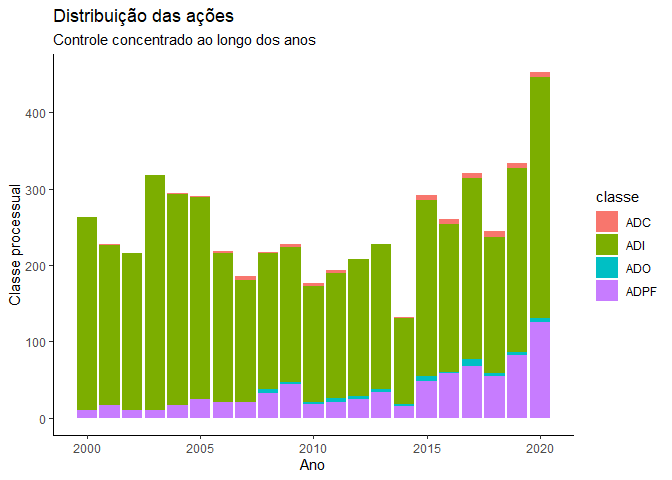
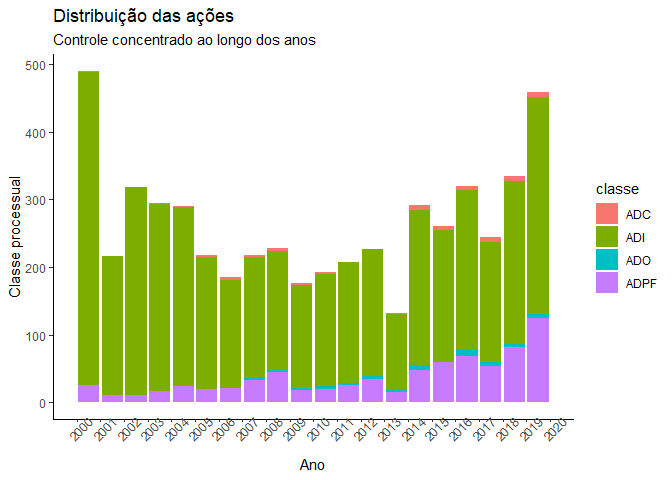
Acrescentando nuvens de palavras e correções nos gráficos

diff --git a/README.md b/README.md
@@ -189,12 +189,12 @@ numa tabela auxiliar, salva em .rds para uso futuro:
     #> # A tibble: 6 x 3
     #>   classe numero incidente
     #>   <chr>   <dbl> <chr>    
-    #> 1 ADC        53 5436051  
-    #> 2 ADC        54 5440576  
-    #> 3 ADC        55 5471945  
-    #> 4 ADC        56 5472003  
-    #> 5 ADC        57 5511026  
-    #> 6 ADC        58 5526245
+    #> 1 ADC         9 1948617  
+    #> 2 ADC        10 2221383  
+    #> 3 ADC        11 2338671  
+    #> 4 ADC        12 2358461  
+    #> 5 ADC        13 2383568  
+    #> 6 ADC        14 2415705
 
 ### *3. Obtenção dos dados do processo*
 
@@ -308,7 +308,6 @@ Da mesma maneira, a função `ler_pdf_inicial`busca a petição já baixada
 relativa ao incidente indicado e faz a leitura da mesma, retornando uma
 string com seu conteúdo.
 
-    #> Joining, by = "word"
     #> # A tibble: 1 x 2
     #>   incidente texto_inicial                                                       
     #>   <chr>     <chr>                                                               
@@ -332,12 +331,12 @@ seguintes:
     #> # A tibble: 6 x 3
     #>   classe numero incidente
     #>   <chr>   <dbl> <chr>    
-    #> 1 ADC        53 5436051  
-    #> 2 ADC        54 5440576  
-    #> 3 ADC        55 5471945  
-    #> 4 ADC        56 5472003  
-    #> 5 ADC        57 5511026  
-    #> 6 ADC        58 5526245
+    #> 1 ADC         9 1948617  
+    #> 2 ADC        10 2221383  
+    #> 3 ADC        11 2338671  
+    #> 4 ADC        12 2358461  
+    #> 5 ADC        13 2383568  
+    #> 6 ADC        14 2415705
 
 | Coluna      | Descrição                                                  |
 | ----------- | ---------------------------------------------------------- |
@@ -354,14 +353,14 @@ linha. A ideia é que seja possível filtrar, agrupar, pivotar e realizar
 join de acordo com a necessidade de cada análise.
 
     #> # A tibble: 6 x 3
-    #>   incidente tipo  nome                                                    
-    #>   <chr>     <chr> <chr>                                                   
-    #> 1 5436051   REQTE DIRETÓRIO NACIONAL DO PROGRESSISTAS-PP                  
-    #> 2 5436051   ADV   LISE REIS BATISTA DE ALBUQUERQUE (25998/DF) E OUTRO(A/S)
-    #> 3 5436051   INTDO PRESIDENTE DA REPÚBLICA                                 
-    #> 4 5436051   PROC  ADVOGADO-GERAL DA UNIÃO                                 
-    #> 5 5436051   INTDO CONGRESSO NACIONAL                                      
-    #> 6 5436051   PROC  ADVOGADO-GERAL DA UNIÃO
+    #>   incidente tipo  nome                                
+    #>   <chr>     <chr> <chr>                               
+    #> 1 1948617   REQTE PRESIDENTE DA REPÚBLICA             
+    #> 2 1948617   ADV   ADVOGADO-GERAL DA UNIÃO             
+    #> 3 2221383   REQTE DINETE LESSA                        
+    #> 4 2221383   ADV   ADRIANO FERNANDES                   
+    #> 5 2338671   REQTE GOVERNADOR DO DISTRITO FEDERAL      
+    #> 6 2338671   ADV   PROCURADOR-GERAL DO DISTRITO FEDERAL
 
 | Coluna      | Descrição                                                                                         |
 | ----------- | ------------------------------------------------------------------------------------------------- |
@@ -378,14 +377,14 @@ repetido para cada linha. A ideia é que seja possível filtrar, agrupar,
 pivotar e realizar join de acordo com a necessidade de cada análise.
 
     #> # A tibble: 6 x 3
-    #>   incidente data       andamento                       
-    #>   <chr>     <date>     <chr>                           
-    #> 1 5436051   2018-09-11 Baixa ao arquivo do STF, Guia nº
-    #> 2 5436051   2018-09-11 Transitado(a) em julgado        
-    #> 3 5436051   2018-08-14 Publicação, DJE                 
-    #> 4 5436051   2018-08-10 Extinto o processo              
-    #> 5 5436051   2018-04-12 Conclusos ao(à) Relator(a)      
-    #> 6 5436051   2018-04-12 Distribuído
+    #>   incidente data       andamento                                                
+    #>   <chr>     <date>     <chr>                                                    
+    #> 1 1948617   2004-09-03 BAIXA AO ARQUIVO DO STF                                  
+    #> 2 1948617   2004-09-03 PUBLICADA DECISÃO NO DJ                                  
+    #> 3 1948617   2004-09-03 PUBLICADA DECISÃO NO D.O.U.                              
+    #> 4 1948617   2004-08-31 TRANSITADO EM JULGADO                                    
+    #> 5 1948617   2004-04-26 JUNTADA DE CÓPIA AUTENTICADA DE MANDADO DE INTIMAÇÃO DEV~
+    #> 6 1948617   2004-04-26 JUNTADA DE CÓPIA AUTENTICADA DE MANDADO DE INTIMAÇÃO DEV~
 
 | Coluna      | Descrição                                                  |
 | ----------- | ---------------------------------------------------------- |
@@ -393,9 +392,10 @@ pivotar e realizar join de acordo com a necessidade de cada análise.
 | *data*      | Data em que ocorreu o andamento                            |
 | *nome*      | Andamento em si                                            |
 
-### *d) Base de andamentos*
+### *d) Base de inteiro teor de petições*
 
-Relaciona o inteiro teor das petições para todos os processos da base.
+Relaciona o inteiro teor das petições para todos os processos da base de
+acordo com a leitura que foi possível realizar.
 
 Assim como a anterior, está em um formato em que o número do incidente é
 repetido para cada linha. A ideia é qie seja possível filtrar, agrupar,
@@ -403,17 +403,18 @@ pivotar e realizar join de acordo com a necessidade de cada análise.
 
 Por ser um texto extenso, é a única que está compactada. Ela também foi
 pré-processada com o pacote `{pdftools}` para que fosse colapsada em
-apenas uma única grande string.
+apenas uma única grande string. Caso a petição seja uma imagem (mais
+comum com os processos mais antigos) a leitura não será feita.
 
     #> # A tibble: 6 x 2
     #>   incidente texto_inicial                                                       
     #>   <chr>     <chr>                                                               
-    #> 1 6012085   "SÉRGIO VICTOR ADVOCACIA EXCELENTÍSSIMO SENHOR MINISTRO LUIZ FUX PR~
-    #> 2 6025884   "EXCELENTÍSSIMO(A) SENHOR(A) MINISTRO PRESIDENTE DO SUPREMO TRIBUNA~
-    #> 3 5337403   "EXCELENTÍSSIMA SENHORA MINISTRA PRESIDENTE DO EGRÉGIO SUPREMO TRIB~
-    #> 4 5340474   "EXCELENTÍSSIMA SENHORA MINISTRA CÁRMEN LÚCIA, PRESIDENTE DO SUPREM~
-    #> 5 5341021   ""                                                                  
-    #> 6 5341622   "EXCELENTÍSSIMA SENHORA PRESIDENTE DO EGRÉGIO SUPREMO TRIBUNAL FEDE~
+    #> 1 5902221   "AlessandraJirardi - Advogada EXCELENTÍSSIMO SENHOR DOUTOR MINISTRO~
+    #> 2 5902367   "EXCELENTÍSSIMO SENHOR MINISTRO PRESIDENTE DO SUPREMO TRIBUNAL FEDE~
+    #> 3 5989626   "SÉRGIO VICTOR ADVOCACIA EXCELENTÍSSIMO SENHOR MINISTRO PRESIDENTE ~
+    #> 4 6012085   "SÉRGIO VICTOR ADVOCACIA EXCELENTÍSSIMO SENHOR MINISTRO LUIZ FUX PR~
+    #> 5 6025884   "EXCELENTÍSSIMO(A) SENHOR(A) MINISTRO PRESIDENTE DO SUPREMO TRIBUNA~
+    #> 6 6062188   "EXCELENTÍSSIMO SR. MINISTRO PRESIDENTE DO SUPREMO TRIBUNAL FEDERAL~
 
 | Coluna           | Descrição                                                  |
 | ---------------- | ---------------------------------------------------------- |
@@ -423,28 +424,50 @@ apenas uma única grande string.
 ### *e) Base de palavras-chave*
 
 Não extraída diretamente do STF, mas decorrente de um pré-processamento
-do texto da petição inicial, ela relaciona as 10 palavras mais
-frequentes em cada petição inicial.
+do texto da petição inicial, ela relaciona as palavras mais frequentes
+em cada petição inicial.
 
 É uma primeira experiência para futura aplicação de técnicas de
 modelagem de texto. Ainda está sujeita a *muitas* melhorias e serve, por
 enquanto, apenas enquanto protótipo.
 
+Pode ajudar a identificar o assunto levado à Corte.
+
     #> # A tibble: 6 x 2
-    #> # Rowwise: 
     #>   incidente palavra                                                             
     #>   <chr>     <chr>                                                               
-    #> 1 6012085   "trabalho, periculosidade, cep, adicional, superior, sao, litros, n~
-    #> 2 6025884   "nº, cidadao, constitucional, constituicao, artigo, constitucionali~
-    #> 3 5337403   "transporte, nº, combustiveis, º, estadual, sobre, nacional, uniao,~
-    #> 4 5340474   "procurador, º, anexo, nº, ii, i, cargo, geral, estado, parte"      
-    #> 5 5341021   ""                                                                  
-    #> 6 5341622   "nº, bens, direito, divida, º, ativa, constitucional, ii, fazenda, ~
+    #> 1 5902221   republica, federal, paulo, presidente, policia, constituicao, artig~
+    #> 2 5902367   º, honorarios, valor, federal, conselho, causa, constitucional, faz~
+    #> 3 5989626   nº, contribuicoes, constituicao, º, contribuicao, federal, constitu~
+    #> 4 6012085   trabalho, periculosidade, adicional, nº, superior, litros, º, decis~
+    #> 5 6025884   nº, cidadao, constitucional, constituicao, artigo, constitucionalid~
+    #> 6 6062188   º, trabalho, tempo, horas, jornada, nº, transporte, motorista, desc~
 
 | Coluna      | Descrição                                                  |
 | ----------- | ---------------------------------------------------------- |
 | *incidente* | Localizador numérico do processo no sistema interno do STF |
 | *palavra*   | Lista das 10 palavras mais frequentes no documento         |
+
+### *f) Base de palavras-chave-nest*
+
+Semelhante à anterior, porém em formato de list column. Ou seja, está
+aninhado à cada incidente um `data frame` com a lista das palavras mais
+frequentes e sua respectiva quantidade.
+
+    #> # A tibble: 6 x 2
+    #>   incidente palavra         
+    #>   <chr>     <list>          
+    #> 1 5902221   <tibble [1 x 1]>
+    #> 2 5902367   <tibble [1 x 1]>
+    #> 3 5989626   <tibble [1 x 1]>
+    #> 4 6012085   <tibble [1 x 1]>
+    #> 5 6025884   <tibble [1 x 1]>
+    #> 6 6062188   <tibble [1 x 1]>
+
+| Coluna      | Descrição                                                                          |
+| ----------- | ---------------------------------------------------------------------------------- |
+| *incidente* | Localizador numérico do processo no sistema interno do STF                         |
+| *palavra*   | Data frame contendo duas colunas: `token`(com a palavra) e `n`(com sua quantidade) |
 
 # Algumas Análises
 
@@ -540,44 +563,76 @@ comportamento desses proponentes:
 
 ![](README_files/figure-gfm/grafico_partes_categorizadas-1.png)<!-- -->
 
-Embora quase residual, as organizações da sociedade civil (OSC),
-compreendendo sindicatos, confederações, etc têm tido **atuação
-expressiva** e de grande importância nos últimos anos. Da mesma forma,
-os partidos políticos têm se mostrado bastante combativos no âmbito do
-STF.
+#### *Em 2020: Atuação dos proponentes ao longo do ano*
+
+Pensando no momento peculiar em que vivemos, uma aspecto interessante a
+observar é como se deu a atuação dos proponentes ao longo desse ano.
+Vejamos:
+
+![](README_files/figure-gfm/grafico_distribuicao_2020_categoria-1.png)<!-- -->
+
+Podemos ver que a atuação dos Estados (Governadores) se deu de forma
+mais intensa no início do ano, enquanto a OAB atuou de forma mais
+contundente nos primeiros meses da pandemia.
+
+As organizações da sociedade civil e os partidos tiveram atuação intensa
+durante todo o ano, com picos nas fases iniciais da pandemia.
+
+A Presidência da República, quando agiu, foi apenas no meio do ano. A
+PGR, por sua vez, teve atuação mais destacada no inicio da pandemia e
+mais recentemente, em novembro.
+
+#### Atuação da OSC e Partidos
+
+Embora quase residual em termos de competência para atuação, as
+organizações da sociedade civil (OSC), compreendendo sindicatos,
+confederações, etc têm tido **atuação expressiva** e de grande
+importância nos últimos anos. Da mesma forma, os partidos políticos têm
+se mostrado bastante combativos no âmbito do STF.
+
+Uma nota importante é que, ao contrário dessas associações, os Partidos
+políticos possuem a chamada “legitimidade universal” e, por isso, em
+tese podem apresentar ações em qualquer tema enquanto as OSCs apenas nos
+temas que dizem respeito direto aos seus associados.
 
 Veremos algumas dessas entidades que têm litigado pertante o Supremo
 Tribunal Federal.
 
-#### *Quais partidos políticos*
+##### *Quais partidos políticos*
 
-| nome                                   |  n |
-| :------------------------------------- | -: |
-| Rede Sustentabilidade                  | 63 |
-| Partido Socialista Brasileiro - Psb    | 53 |
-| Partido Democratico Trabalhista        | 51 |
-| Partido Dos Trabalhadores              | 43 |
-| Partido Socialismo E Liberdade (P-Sol) | 42 |
-| Solidariedade                          | 21 |
-| Partido Comunista Do Brasil            | 20 |
-| Partido Trabalhista Brasileiro - Ptb   | 12 |
-| Partido Social Liberal                 | 10 |
-| Podemos                                | 10 |
+Abaixo lista de quais partidos mais apresentaram ações. Um grande
+destaque para os Partidos de esquerda.
 
-#### *Quais associações, sindicatos, etc*
+| nome                                         |  n |
+| :------------------------------------------- | -: |
+| PARTIDO SOCIALISTA BRASILEIRO PSB            | 85 |
+| PARTIDO DEMOCRATICO TRABALHISTA PDT          | 84 |
+| PARTIDO SOCIALISMO E LIBERDADE PSOL          | 84 |
+| PARTIDO SOCIAL LIBERAL PSL                   | 80 |
+| PARTIDO DA SOCIAL DEMOCRACIA BRASILEIRA PSDB | 76 |
+| PARTIDO DOS TRABALHADORES                    | 68 |
+| REDE SUSTENTABILIDADE                        | 64 |
+| PARTIDO DEMOCRATICO TRABALHISTA              | 54 |
+| SOLIDARIEDADE                                | 48 |
+| PARTIDO TRABALHISTA BRASILEIRO PTB           | 40 |
 
-| nome                                                                                   |  n |
-| :------------------------------------------------------------------------------------- | -: |
-| Associacao Nacional Das Operadoras Celulares - Acel                                    | 22 |
-| Associacao Nacional Dos Servidores Do Ministerio Publico - Ansemp                      | 19 |
-| Confederacao Brasileira De Trabalhadores Policiais Civis - Cobrapol                    | 19 |
-| Confederacao Dos Servidores Publicos Do Brasil - Cspb                                  | 18 |
-| Abrafix - Associacao Brasileira De Concessionarias De Servico Telefonico Fixo Comutado | 15 |
-| Abradee Associacao Brasileira Distrib Energia Eletrica                                 | 14 |
-| Confederacao Nacional Da Industria                                                     | 14 |
-| Associacao Dos Magistrados Brasileiros                                                 | 13 |
-| Confederacao Nacional Do Transporte                                                    | 13 |
-| Associacao Nacional Dos Defensores Publicos - Anadep                                   | 12 |
+##### *Quais associações, sindicatos, etc*
+
+Aqui as associações que mais apresentaram ações de controle concentrado
+no STF. Destaque para associações ligadas à carreiras jurídicas.
+
+| nome                                                              |   n |
+| :---------------------------------------------------------------- | --: |
+| ASSOCIACAO DOS MAGISTRADOS BRASILEIROS AMB                        | 104 |
+| CONFEDERACAO NACIONAL DA INDUSTRIA                                |  78 |
+| ASSOCIACAO NACIONAL DOS MEMBROS DO MINISTERIO PUBLICO CONAMP      |  63 |
+| CONFEDERACAO NACIONAL DO COMERCIO DE BENS SERVICOS E TURISMO CNC  |  51 |
+| CONFEDERACAO BRASILEIRA DE TRABALHADORES POLICIAIS CIVIS COBRAPOL |  46 |
+| ASSOCIACAO NACIONAL DAS OPERADORAS CELULARES ACEL                 |  45 |
+| CONFEDERACAO NACIONAL DO COMERCIO CNC                             |  43 |
+| ASSOCIACAO DOS NOTARIOS E REGISTRADORES DO BRASIL ANOREGBR        |  42 |
+| CONFEDERACAO DOS SERVIDORES PUBLICOS DO BRASIL CSPB               |  41 |
+| ASSOCIACAO NACIONAL DOS MAGISTRADOS ESTADUAIS ANAMAGES            |  37 |
 
 ## O Supremo e a Pandemia
 
@@ -588,8 +643,8 @@ Dúvidas sobre os limites federativos, questionamento de atos legislatios
 ou executivos, omissão do Governo Federal, etc foram algumas das muitas
 questões levadas à Corte.
 
-Veremos a seguir a proporção de ações que possuem algumaa relação com a
-pandemia em relação aos demais temas ao longo dos meses de janeiro até
+Veremos a seguir a proporção de ações relativas com a pandemia em
+relação aos demais temas ao longo dos meses de janeiro até o fim de
 novembro de 2020:
 
 ![](README_files/figure-gfm/grafico_evolucao_acoes_covid-1.png)<!-- -->
@@ -624,69 +679,20 @@ concluir quase nada. Divide-se esse intento com a comunidade na
 esperança de feedbacks e sugestões de como aprimorar essa análise no
 futuro.
 
-<table>
+![](README_files/figure-gfm/tabela_minimo_covid-1.png)<!-- -->
 
-<thead>
+É também possível observar como variam as palavras mais usadas conforme
+a categoria do proponente. Foram separadas as palavras mais usadas por
+cada uma delas e plotadas as nuvens abaixo.
 
-<tr>
+Podemos formular algumas hipóteses sobre a atuação de cada um desses
+grupos?
 
-<th style="text-align:left;">
+![](README_files/figure-gfm/nuvem-por-requerente-1.png)<!-- -->![](README_files/figure-gfm/nuvem-por-requerente-2.png)<!-- -->![](README_files/figure-gfm/nuvem-por-requerente-3.png)<!-- -->![](README_files/figure-gfm/nuvem-por-requerente-4.png)<!-- -->![](README_files/figure-gfm/nuvem-por-requerente-5.png)<!-- -->![](README_files/figure-gfm/nuvem-por-requerente-6.png)<!-- -->
 
-corona
-
-</th>
-
-<th style="text-align:left;">
-
-sintese
-
-</th>
-
-</tr>
-
-</thead>
-
-<tbody>
-
-<tr>
-
-<td style="text-align:left;">
-
-FALSE
-
-</td>
-
-<td style="text-align:left;">
-
-constituicao, estado, republica, publico, procurador, ministerio,
-direito, n, nacional, geral, tribunal, df, constitucional, sobre,
-ambiente, artigo, meio, resolucao, sao, direitos
-
-</td>
-
-</tr>
-
-<tr>
-
-<td style="text-align:left;">
-
-TRUE
-
-</td>
-
-<td style="text-align:left;">
-
-estado, saude, constituicao, direito, covid, medida, sobre, publico,
-republica, df, inconstitucionalidade, direitos, uniao, brasilia,
-ministerio, n, sao, brasil, constitucional, publicos
-
-</td>
-
-</tr>
-
-</tbody>
-
-</table>
+Provavelmente nada muito contundente por enquanto, mas pode ser
+interessante aplicar a esses dados técnicas mais aguçadas de mineração
+de texto.
 
 ## Próximos passos
 
